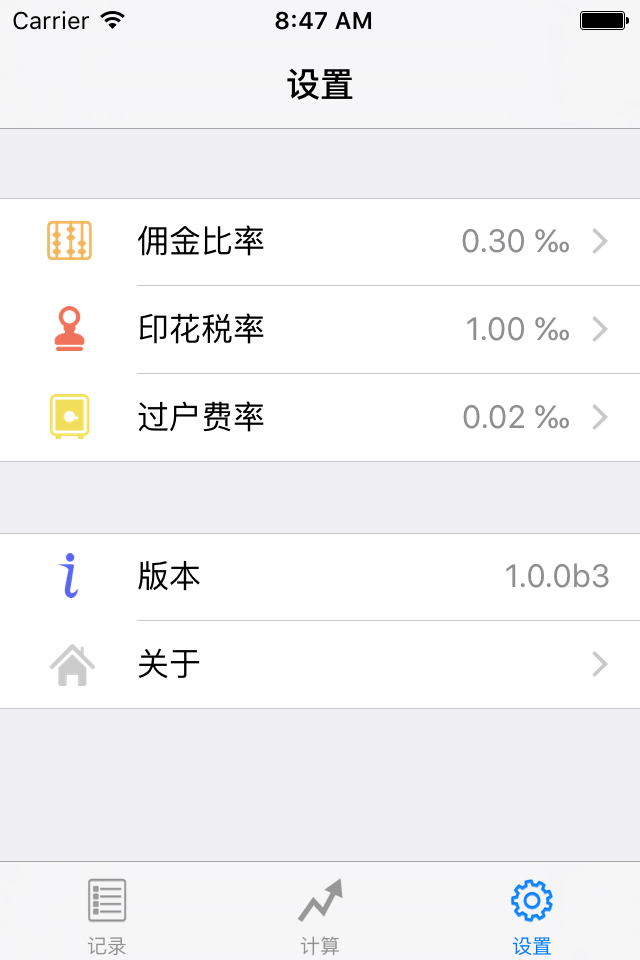
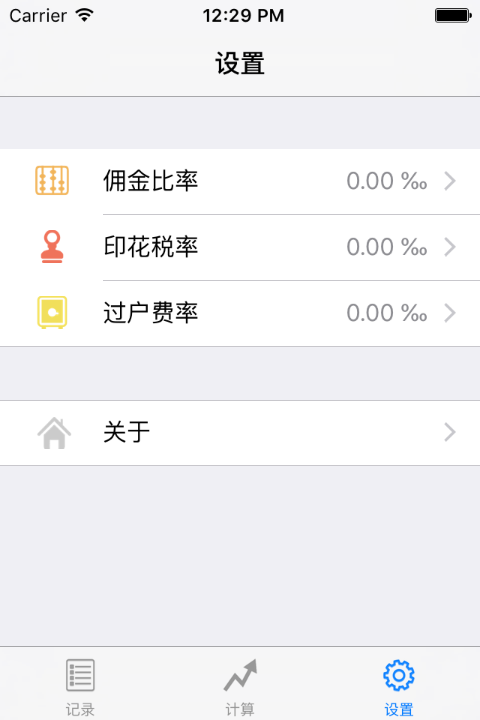
fix the reject about version in setting

diff --git a/source/StockCalculator/StockCalculator/about.html b/source/StockCalculator/StockCalculator/about.html
@@ -6,18 +6,25 @@ div {
 	padding:0.5em;
 }
 	</style>
+    <script>
+        function version(v) {
+            document.getElementById("version").innerText = v;
+        }
+    </script>
 </head>
 <body>
-	<div align="center"><img width="64" height="64" src="iconv4x512.png" /></div>
+    <div align="center"><img width="64" height="64" src="iconv4x512.png" /><br><div id="version"></div></div>
 	<br />
 	<table rules=rows frame=void width=100% border=1 bordercolor=lightgray bxgcolor=#eeeeee>
 		<tr height=40><td colspan="3"><b>关于</b></td></tr>
 		<tr height=30><td width=30><img src="author.png" /></td><td><b>作者</b></td><td><a href="http://me.codepongo.com">zuohaitao</a></td></tr>
 		<tr height=30><td width=30><img src="source.png" /></td><td><b>源码</b></td><td><a href="http://github.com/codepongo/cnstockcalculator">StockCalulator</a></td></tr>
+<!--
 		<tr height=40><td colspan="3"><b>捐赠</b></td></tr>
 		<tr height=30><td width=30><img src="alibaba.png" /></td><td><b>支付宝</b></td><td><a href="https://qr.alipay.com/apzx08i29imkq7cb9a">z**h**t**@hotmial.com</a></td></tr>
 		<tr height=40><td colspan="3"><b>感谢</b></td></tr>
 		<tr height=30><td width=30><img src="material.png" /></td><td><b>素材</b></td><td><a href="http://easyicon.cn">easyicon.cn</a></td></tr>
+ -->
 		<tr height=40><td colspan="3"></td></tr>
 	</table>
 </body>

diff --git a/source/StockCalculator/StockCalculator/AboutController.m b/source/StockCalculator/StockCalculator/AboutController.m
@@ -42,6 +42,10 @@
 }
 
 - (void)webViewDidFinishLoad:(UIWebView * _Nonnull)webView {
+    NSDictionary *info = [[NSBundle mainBundle] infoDictionary];
+    NSString* version = [NSString stringWithFormat:@"v%@.%@", [info objectForKey:@"CFBundleShortVersionString"], [info objectForKey:@"CFBundleVersion"]];
+
+    [self.webView stringByEvaluatingJavaScriptFromString:[NSString stringWithFormat:@"version('%@');", version]];
     self.indicator.hidden = YES;
     if (self.url.fileURL) {
         self.webView.scalesPageToFit = YES;

diff --git a/source/StockCalculator/StockCalculator/SettingController.m b/source/StockCalculator/StockCalculator/SettingController.m
@@ -19,8 +19,6 @@
 - (void)viewDidLoad {
     [super viewDidLoad];
     self.rate = [[Rate alloc] init];
-    NSDictionary *info = [[NSBundle mainBundle] infoDictionary];
-    self.version.text = [NSString stringWithFormat:@"%@b%@", [info objectForKey:@"CFBundleShortVersionString"], [info objectForKey:@"CFBundleVersion"]];
 
     // Uncomment the following line to preserve selection between presentations.
     // self.clearsSelectionOnViewWillAppear = NO;

diff --git a/source/StockCalculator/StockCalculator/SettingController.h b/source/StockCalculator/StockCalculator/SettingController.h
@@ -12,5 +12,4 @@
 @property IBOutlet UILabel* commission;
 @property IBOutlet UILabel* stamp;
 @property IBOutlet UILabel* transfer;
-@property IBOutlet UILabel* version;
 @end
